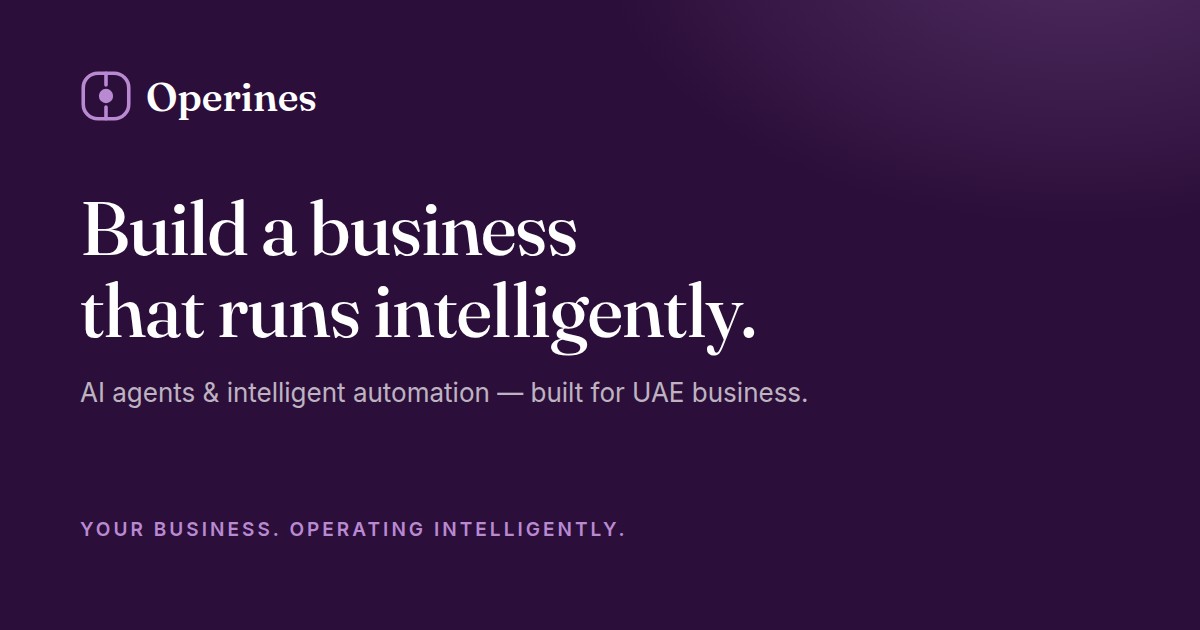
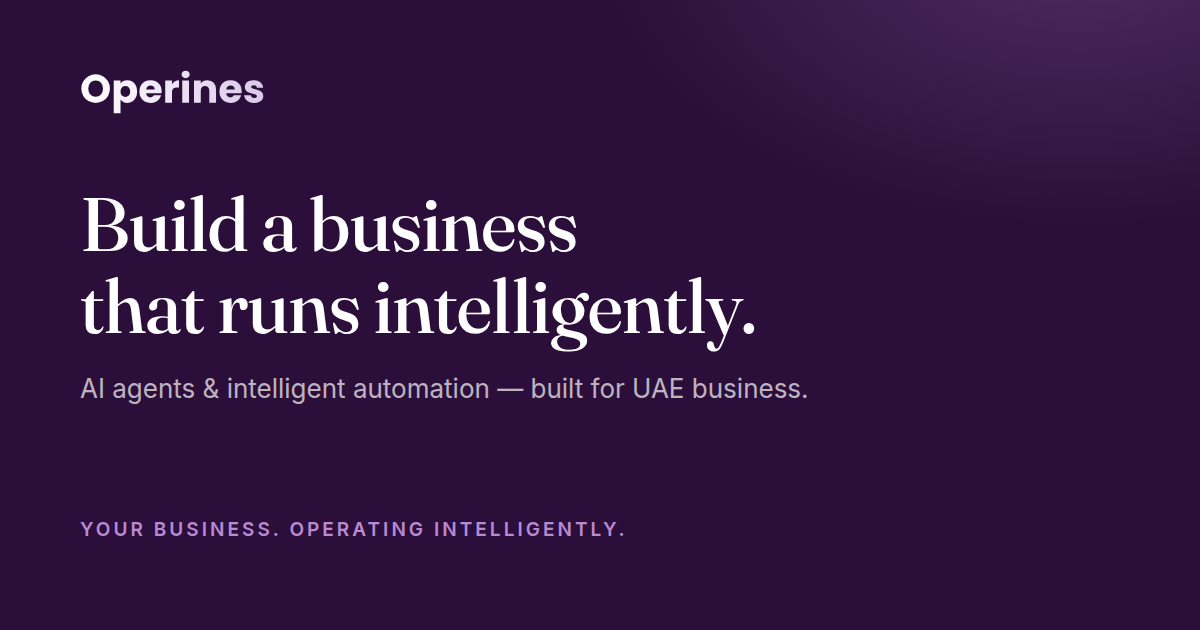
Integrate official Operines wordmark across the theme
Recreated the brand wordmark (bold geometric sans, purple-to-near-black
gradient) as crisp vector SVGs from type outlines:

- assets/img/operines-logo.svg (gradient, light surfaces)
- assets/img/operines-logo-light.svg (light variant for dark surfaces)
- favicon rebuilt from the wordmark "O" on brand purple
- header, footer, and hero intelligence-layer chip now use the wordmark
- OG share image regenerated with the official logo
- docs updated (logo TODO resolved)

Verified: PHP lint clean, no console errors or overflow at 1440/390.

Claude-Session: https://claude.ai/code/session_01EvC86SX2CD4UoyasP5UcSz

diff --git a/wp-content/themes/operines/assets/css/main.css b/wp-content/themes/operines/assets/css/main.css
@@ -260,17 +260,11 @@ p:last-child { margin-bottom: 0; }
 .brand {
 	display: inline-flex;
 	align-items: center;
-	gap: 0.55rem;
 	text-decoration: none;
 	color: var(--ink);
 }
-.brand-mark { color: var(--purple); flex: none; }
-.brand-name {
-	font-family: var(--font-display);
-	font-weight: 560;
-	font-size: 1.35rem;
-	letter-spacing: -0.01em;
-}
+.brand-logo { height: 27px; width: auto; display: block; }
+.brand--footer .brand-logo { height: 29px; }
 
 .primary-nav { margin-inline-start: auto; }
 .nav-list { display: flex; align-items: center; gap: 0.25rem; list-style: none; margin: 0; padding: 0; }
@@ -406,7 +400,6 @@ p:last-child { margin-bottom: 0; }
 	border-bottom: 1px solid var(--line-dark);
 }
 .site-footer .brand { color: #fff; }
-.site-footer .brand-mark { color: var(--violet-bright); }
 .footer-tagline {
 	font-family: var(--font-display);
 	font-size: 1.5rem;
@@ -550,8 +543,7 @@ p:last-child { margin-bottom: 0; }
 	padding: 1.05rem 1.5rem;
 	box-shadow: 0 10px 34px rgba(79, 25, 100, 0.35);
 }
-.hero-core .brand-mark { color: #fff; }
-.hero-core-name { font-family: var(--font-display); font-weight: 560; font-size: 1.12rem; line-height: 1; }
+.hero-core-logo { height: 24px; width: auto; }
 .hero-core-sub { font-size: 0.66rem; letter-spacing: 0.14em; text-transform: uppercase; opacity: 0.75; }
 
 .hero-ticker {

diff --git a/wp-content/themes/operines/inc/template-tags.php b/wp-content/themes/operines/inc/template-tags.php
@@ -42,20 +42,18 @@ function operines_icon( string $name, int $size = 20 ): string {
 }
 
 /**
- * Brand lockup. NOTE(owner): replace the typographic mark with the official
- * Operines logo file when provided — drop it in assets/img/ and update here.
+ * Brand lockup: the official Operines wordmark (vector recreation of the
+ * brand logo; gradient version on light surfaces, light version on dark).
  */
 function operines_logo( string $context = 'header' ): string {
-	$mark = '<svg class="brand-mark" width="30" height="30" viewBox="0 0 32 32" fill="none" aria-hidden="true" focusable="false">'
-		. '<rect x="2" y="2" width="28" height="28" rx="9" stroke="currentColor" stroke-width="2.2"/>'
-		. '<circle cx="16" cy="16" r="4.4" fill="currentColor"/>'
-		. '<path d="M16 2v7.2M16 22.8V30" stroke="currentColor" stroke-width="2.2" stroke-linecap="round"/>'
-		. '</svg>';
+	$light = in_array( $context, array( 'footer', 'dark' ), true );
+	$file  = $light ? 'operines-logo-light.svg' : 'operines-logo.svg';
+	// Intrinsic ratio 4652:1107 — width/height attributes prevent layout shift.
 	return sprintf(
-		'<a class="brand brand--%s" href="%s" aria-label="Operines — home">%s<span class="brand-name">Operines</span></a>',
+		'<a class="brand brand--%s" href="%s"><img class="brand-logo" src="%s" alt="Operines — home" width="126" height="30"></a>',
 		esc_attr( $context ),
 		esc_url( home_url( '/' ) ),
-		$mark
+		esc_url( OPERINES_URI . '/assets/img/' . $file )
 	);
 }
 

diff --git a/wp-content/themes/operines/front-page.php b/wp-content/themes/operines/front-page.php
@@ -69,7 +69,7 @@ $nodes = array(
 					</span>
 				<?php endforeach; ?>
 				<div class="hero-core">
-					<span class="hero-core-name">Operines</span>
+					<img class="hero-core-logo" src="<?php echo esc_url( OPERINES_URI . '/assets/img/operines-logo-light.svg' ); ?>" alt="" width="105" height="25">
 					<span class="hero-core-sub">Intelligence layer</span>
 				</div>
 			</div>

diff --git a/OPERINES-WEBSITE.md b/OPERINES-WEBSITE.md
@@ -47,8 +47,11 @@ solution means adding an array entry and re-running the seeder.
 The site never invents proof. These items are placeholder/flagged in code
 (search for `TODO(owner)`):
 
-1. **Official Operines logo** — a typographic mark is used; replace in
-   `inc/template-tags.php::operines_logo()` and `assets/img/operines-logo.svg`.
+1. **Logo** — done: the official Operines wordmark is integrated as a vector
+   recreation (`assets/img/operines-logo.svg` + `operines-logo-light.svg` for
+   dark surfaces, favicon from the "O"). If you have a master vector file
+   (AI/SVG), you can drop it over these paths; the gradient used is
+   `#5a1c72 → #4f1964 → #1a1220`.
 2. **Contact details** — confirm email, add WhatsApp number, phone, office
    address, LinkedIn URL in `inc/data.php::operines_contact()`. WhatsApp CTAs
    appear automatically once the number is set.
